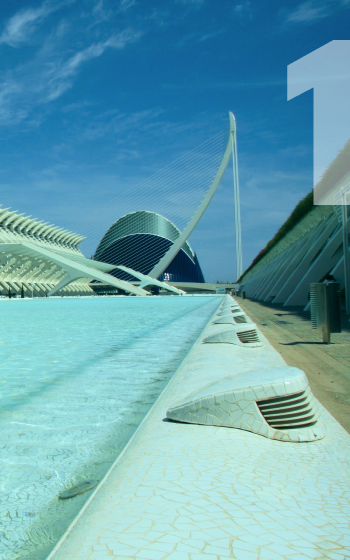
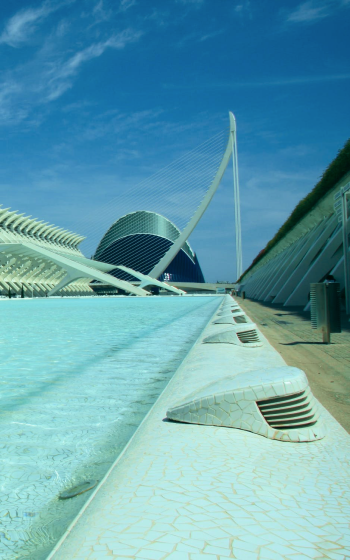
add make changes to cart

Changed region(s): [[0.8, 0.0607, 1.0, 0.3643]]

diff --git a/scss/style.scss b/scss/style.scss
@@ -3,6 +3,7 @@
     margin: 0;
     padding: 0;
     box-sizing: border-box;
+    outline: 2px solid blue;
 }
 body, button, input{
     font-family: "League Spartan";
@@ -231,55 +232,107 @@ main{
         .cart-element{
             display: flex;
             justify-content: space-between;
+            height: 560px;
             .cart-content-1{
                 width: 350px;
-               background-image: url(../img/disktop-img-cart-img-1.png);
-               padding: 457px 0px 0px 40px;
-               h4{
-                color: #FFF;
-                font-size: 32px;
-                font-weight: 700;
-                line-height: 40px;
-               }
-               p{
-                color: #FFF;
-                font-size: 18px;
-                font-weight: 500;
-                line-height: 24px;
+                background-image: url(../img/disktop-img-cart-img-1.png);
+                background-position: center bottom;
+                position: relative;
+                .heading-1{
+                    position: absolute;
+                    right: -17px;
+                    top: 40px;
+                    h1{
+                        font-weight: 700;
+                        font-size: 250px;
+                        color: #fff;
+                        opacity: 0.5;
+                    }
+                }
+               .cart-content-1-text{
+                position: absolute;
+                left: 40px;
+                bottom: 40px;
+                h4{
+                    color: #FFF;
+                    font-size: 32px;
+                    font-weight: 700;
+                    line-height: 40px;
+                   }
+                   p{
+                    color: #FFF;
+                    font-size: 18px;
+                    font-weight: 500;
+                    line-height: 24px;
+                   }
                }
             }
             .cart-content-2{
                 width: 350px;
                 background-image: url(../img/disktop-img-cart-img-2.png);
-                padding: 457px 0px 0px 40px;
-               h4{
-                color: #FFF;
-                font-size: 32px;
-                font-weight: 700;
-                line-height: 40px;
-               }
-               p{
-                color: #FFF;
-                font-size: 18px;
-                font-weight: 500;
-                line-height: 24px;
+                background-position: center bottom;
+                position: relative;
+                .heading-1{
+                    position: absolute;
+                    right: -17px;
+                    top: 40px;
+                    h1{
+                        font-weight: 700;
+                        font-size: 250px;
+                        color: #fff;
+                        opacity: 0.5;
+                    }
+                }
+               .cart-content-1-text{
+                position: absolute;
+                left: 40px;
+                bottom: 40px;
+                h4{
+                    color: #FFF;
+                    font-size: 32px;
+                    font-weight: 700;
+                    line-height: 40px;
+                   }
+                   p{
+                    color: #FFF;
+                    font-size: 18px;
+                    font-weight: 500;
+                    line-height: 24px;
+                   }
                }
             }
             .cart-content-3{
                 width: 350px;
                 background-image: url(../img/disktop-img-cart-img-3.png);
-                padding: 457px 0px 0px 40px;
-               h4{
-                color: #FFF;
-                font-size: 32px;
-                font-weight: 700;
-                line-height: 40px;
-               }
-               p{
-                color: #FFF;
-                font-size: 18px;
-                font-weight: 500;
-                line-height: 24px;
+                background-position: center bottom;
+                position: relative;
+                .heading-1{
+                    position: absolute;
+                    right: -17px;
+                    top: 40px;
+                    h1{
+                        font-weight: 700;
+                        font-size: 250px;
+                        color: #fff;
+                        opacity: 0.5;
+                    }
+                }
+               .cart-content-1-text{
+                position: absolute;
+                left: 40px;
+                bottom: 40px;
+                h4{
+                    color: #FFF;
+                    font-size: 32px;
+                    font-weight: 700;
+                    line-height: 40px;
+                   }
+                   p{
+                    color: #FFF;
+                    font-size: 18px;
+                    font-weight: 500;
+                    line-height: 24px;
+                   }
                }
             }
         }

diff --git a/css/style.css b/css/style.css
@@ -3,6 +3,7 @@
   margin: 0;
   padding: 0;
   box-sizing: border-box;
+  outline: 2px solid blue;
 }
 
 body, button, input {
@@ -234,19 +235,37 @@ main .cart .cart-text .btn {
 main .cart .cart-element {
   display: flex;
   justify-content: space-between;
+  height: 560px;
 }
 main .cart .cart-element .cart-content-1 {
   width: 350px;
   background-image: url(../img/disktop-img-cart-img-1.png);
-  padding: 457px 0px 0px 40px;
+  background-position: center bottom;
+  position: relative;
 }
-main .cart .cart-element .cart-content-1 h4 {
+main .cart .cart-element .cart-content-1 .heading-1 {
+  position: absolute;
+  right: -17px;
+  top: 40px;
+}
+main .cart .cart-element .cart-content-1 .heading-1 h1 {
+  font-weight: 700;
+  font-size: 250px;
+  color: #fff;
+  opacity: 0.5;
+}
+main .cart .cart-element .cart-content-1 .cart-content-1-text {
+  position: absolute;
+  left: 40px;
+  bottom: 40px;
+}
+main .cart .cart-element .cart-content-1 .cart-content-1-text h4 {
   color: #FFF;
   font-size: 32px;
   font-weight: 700;
   line-height: 40px;
 }
-main .cart .cart-element .cart-content-1 p {
+main .cart .cart-element .cart-content-1 .cart-content-1-text p {
   color: #FFF;
   font-size: 18px;
   font-weight: 500;
@@ -255,15 +274,32 @@ main .cart .cart-element .cart-content-1 p {
 main .cart .cart-element .cart-content-2 {
   width: 350px;
   background-image: url(../img/disktop-img-cart-img-2.png);
-  padding: 457px 0px 0px 40px;
+  background-position: center bottom;
+  position: relative;
 }
-main .cart .cart-element .cart-content-2 h4 {
+main .cart .cart-element .cart-content-2 .heading-1 {
+  position: absolute;
+  right: -17px;
+  top: 40px;
+}
+main .cart .cart-element .cart-content-2 .heading-1 h1 {
+  font-weight: 700;
+  font-size: 250px;
+  color: #fff;
+  opacity: 0.5;
+}
+main .cart .cart-element .cart-content-2 .cart-content-1-text {
+  position: absolute;
+  left: 40px;
+  bottom: 40px;
+}
+main .cart .cart-element .cart-content-2 .cart-content-1-text h4 {
   color: #FFF;
   font-size: 32px;
   font-weight: 700;
   line-height: 40px;
 }
-main .cart .cart-element .cart-content-2 p {
+main .cart .cart-element .cart-content-2 .cart-content-1-text p {
   color: #FFF;
   font-size: 18px;
   font-weight: 500;
@@ -272,15 +308,32 @@ main .cart .cart-element .cart-content-2 p {
 main .cart .cart-element .cart-content-3 {
   width: 350px;
   background-image: url(../img/disktop-img-cart-img-3.png);
-  padding: 457px 0px 0px 40px;
+  background-position: center bottom;
+  position: relative;
 }
-main .cart .cart-element .cart-content-3 h4 {
+main .cart .cart-element .cart-content-3 .heading-1 {
+  position: absolute;
+  right: -17px;
+  top: 40px;
+}
+main .cart .cart-element .cart-content-3 .heading-1 h1 {
+  font-weight: 700;
+  font-size: 250px;
+  color: #fff;
+  opacity: 0.5;
+}
+main .cart .cart-element .cart-content-3 .cart-content-1-text {
+  position: absolute;
+  left: 40px;
+  bottom: 40px;
+}
+main .cart .cart-element .cart-content-3 .cart-content-1-text h4 {
   color: #FFF;
   font-size: 32px;
   font-weight: 700;
   line-height: 40px;
 }
-main .cart .cart-element .cart-content-3 p {
+main .cart .cart-element .cart-content-3 .cart-content-1-text p {
   color: #FFF;
   font-size: 18px;
   font-weight: 500;

diff --git a/index.html b/index.html
@@ -65,16 +65,25 @@
             </div>
             <div class="cart-element">
                 <div class="cart-content-1">
+                    <div class="heading-1"><h1>1</h1></div>
+                   <div class="cart-content-1-text">
                     <h4>Project Del Sol</h4>
                     <p>View All Projects</p>
+                   </div>
                 </div>
                 <div class="cart-content-2">
-                    <h4>228B Tower</h4>
+                    <div class="heading-1"><h1>2</h1></div>
+                    <div class="cart-content-1-text">
+                        <h4>228B Tower</h4>
                     <p>View All Projects</p>
+                    </div>
                 </div>
                 <div class="cart-content-3">
-                    <h4>Le Prototype</h4>
+                    <div class="heading-1"><h1>3</h1></div>
+                    <div class="cart-content-1-text">
+                        <h4>Le Prototype</h4>
                     <p>View All Projects</p>
+                    </div>
                 </div>
             </div>
         </div>
